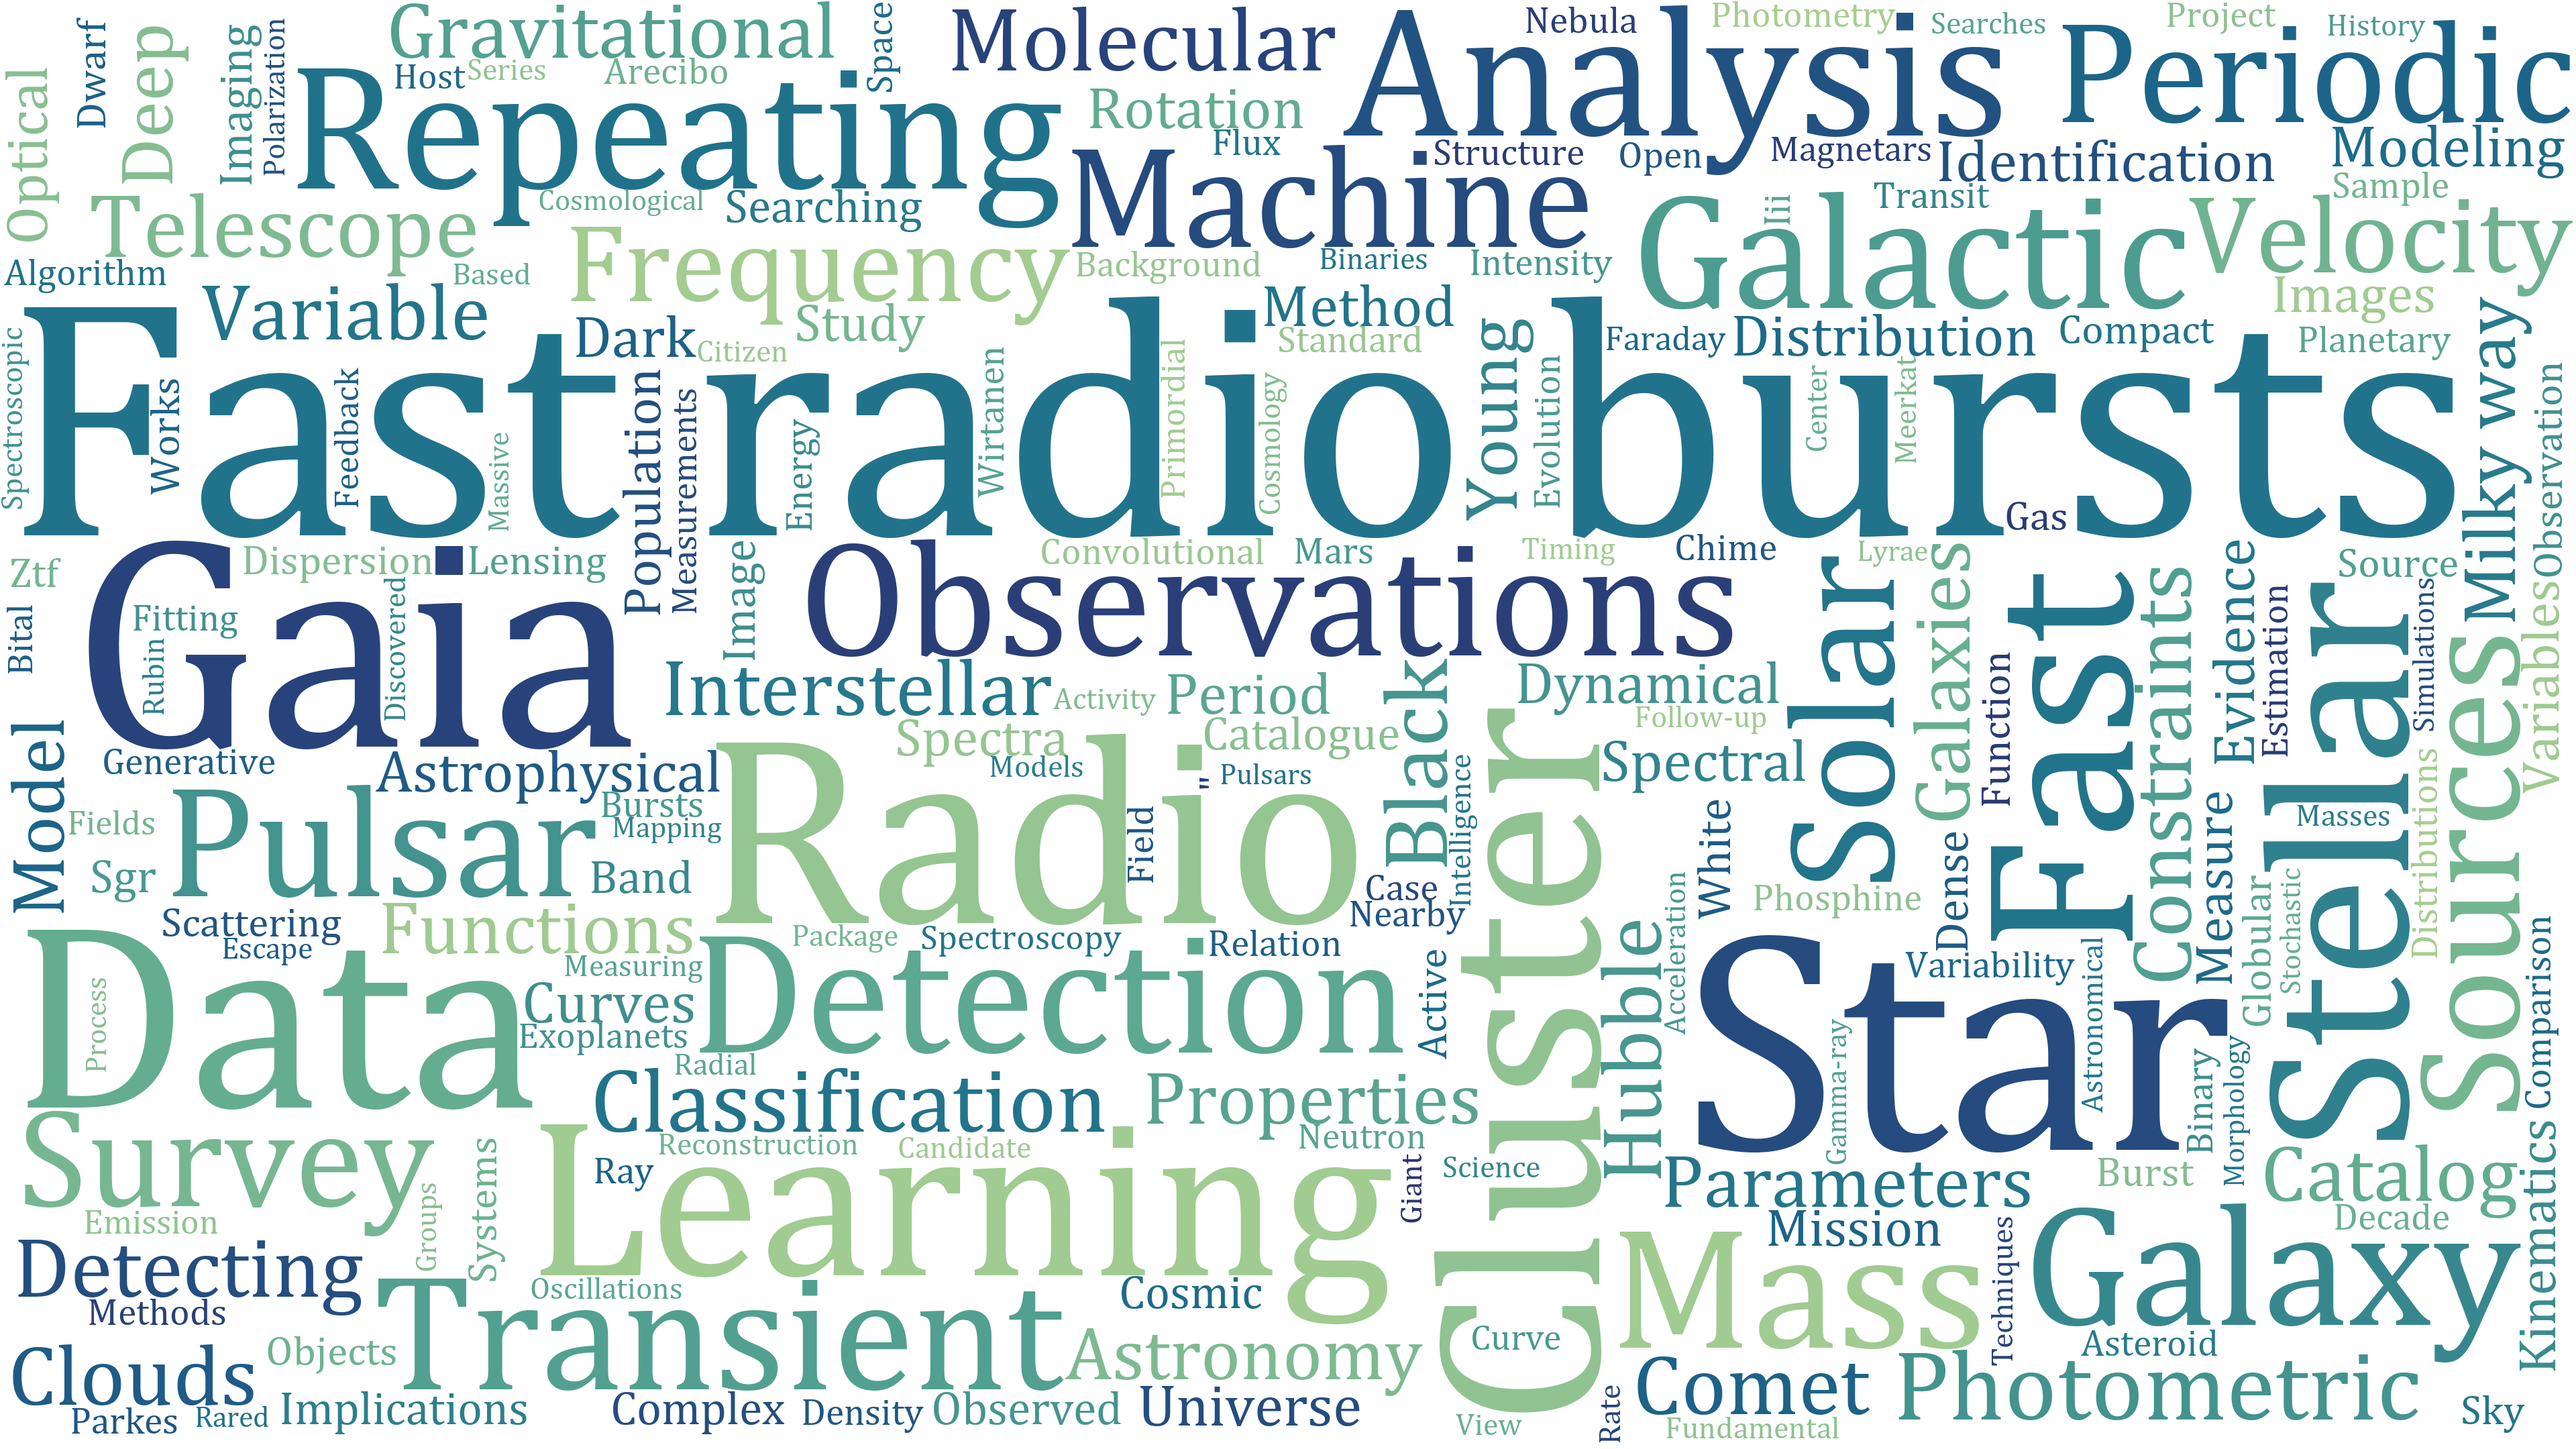
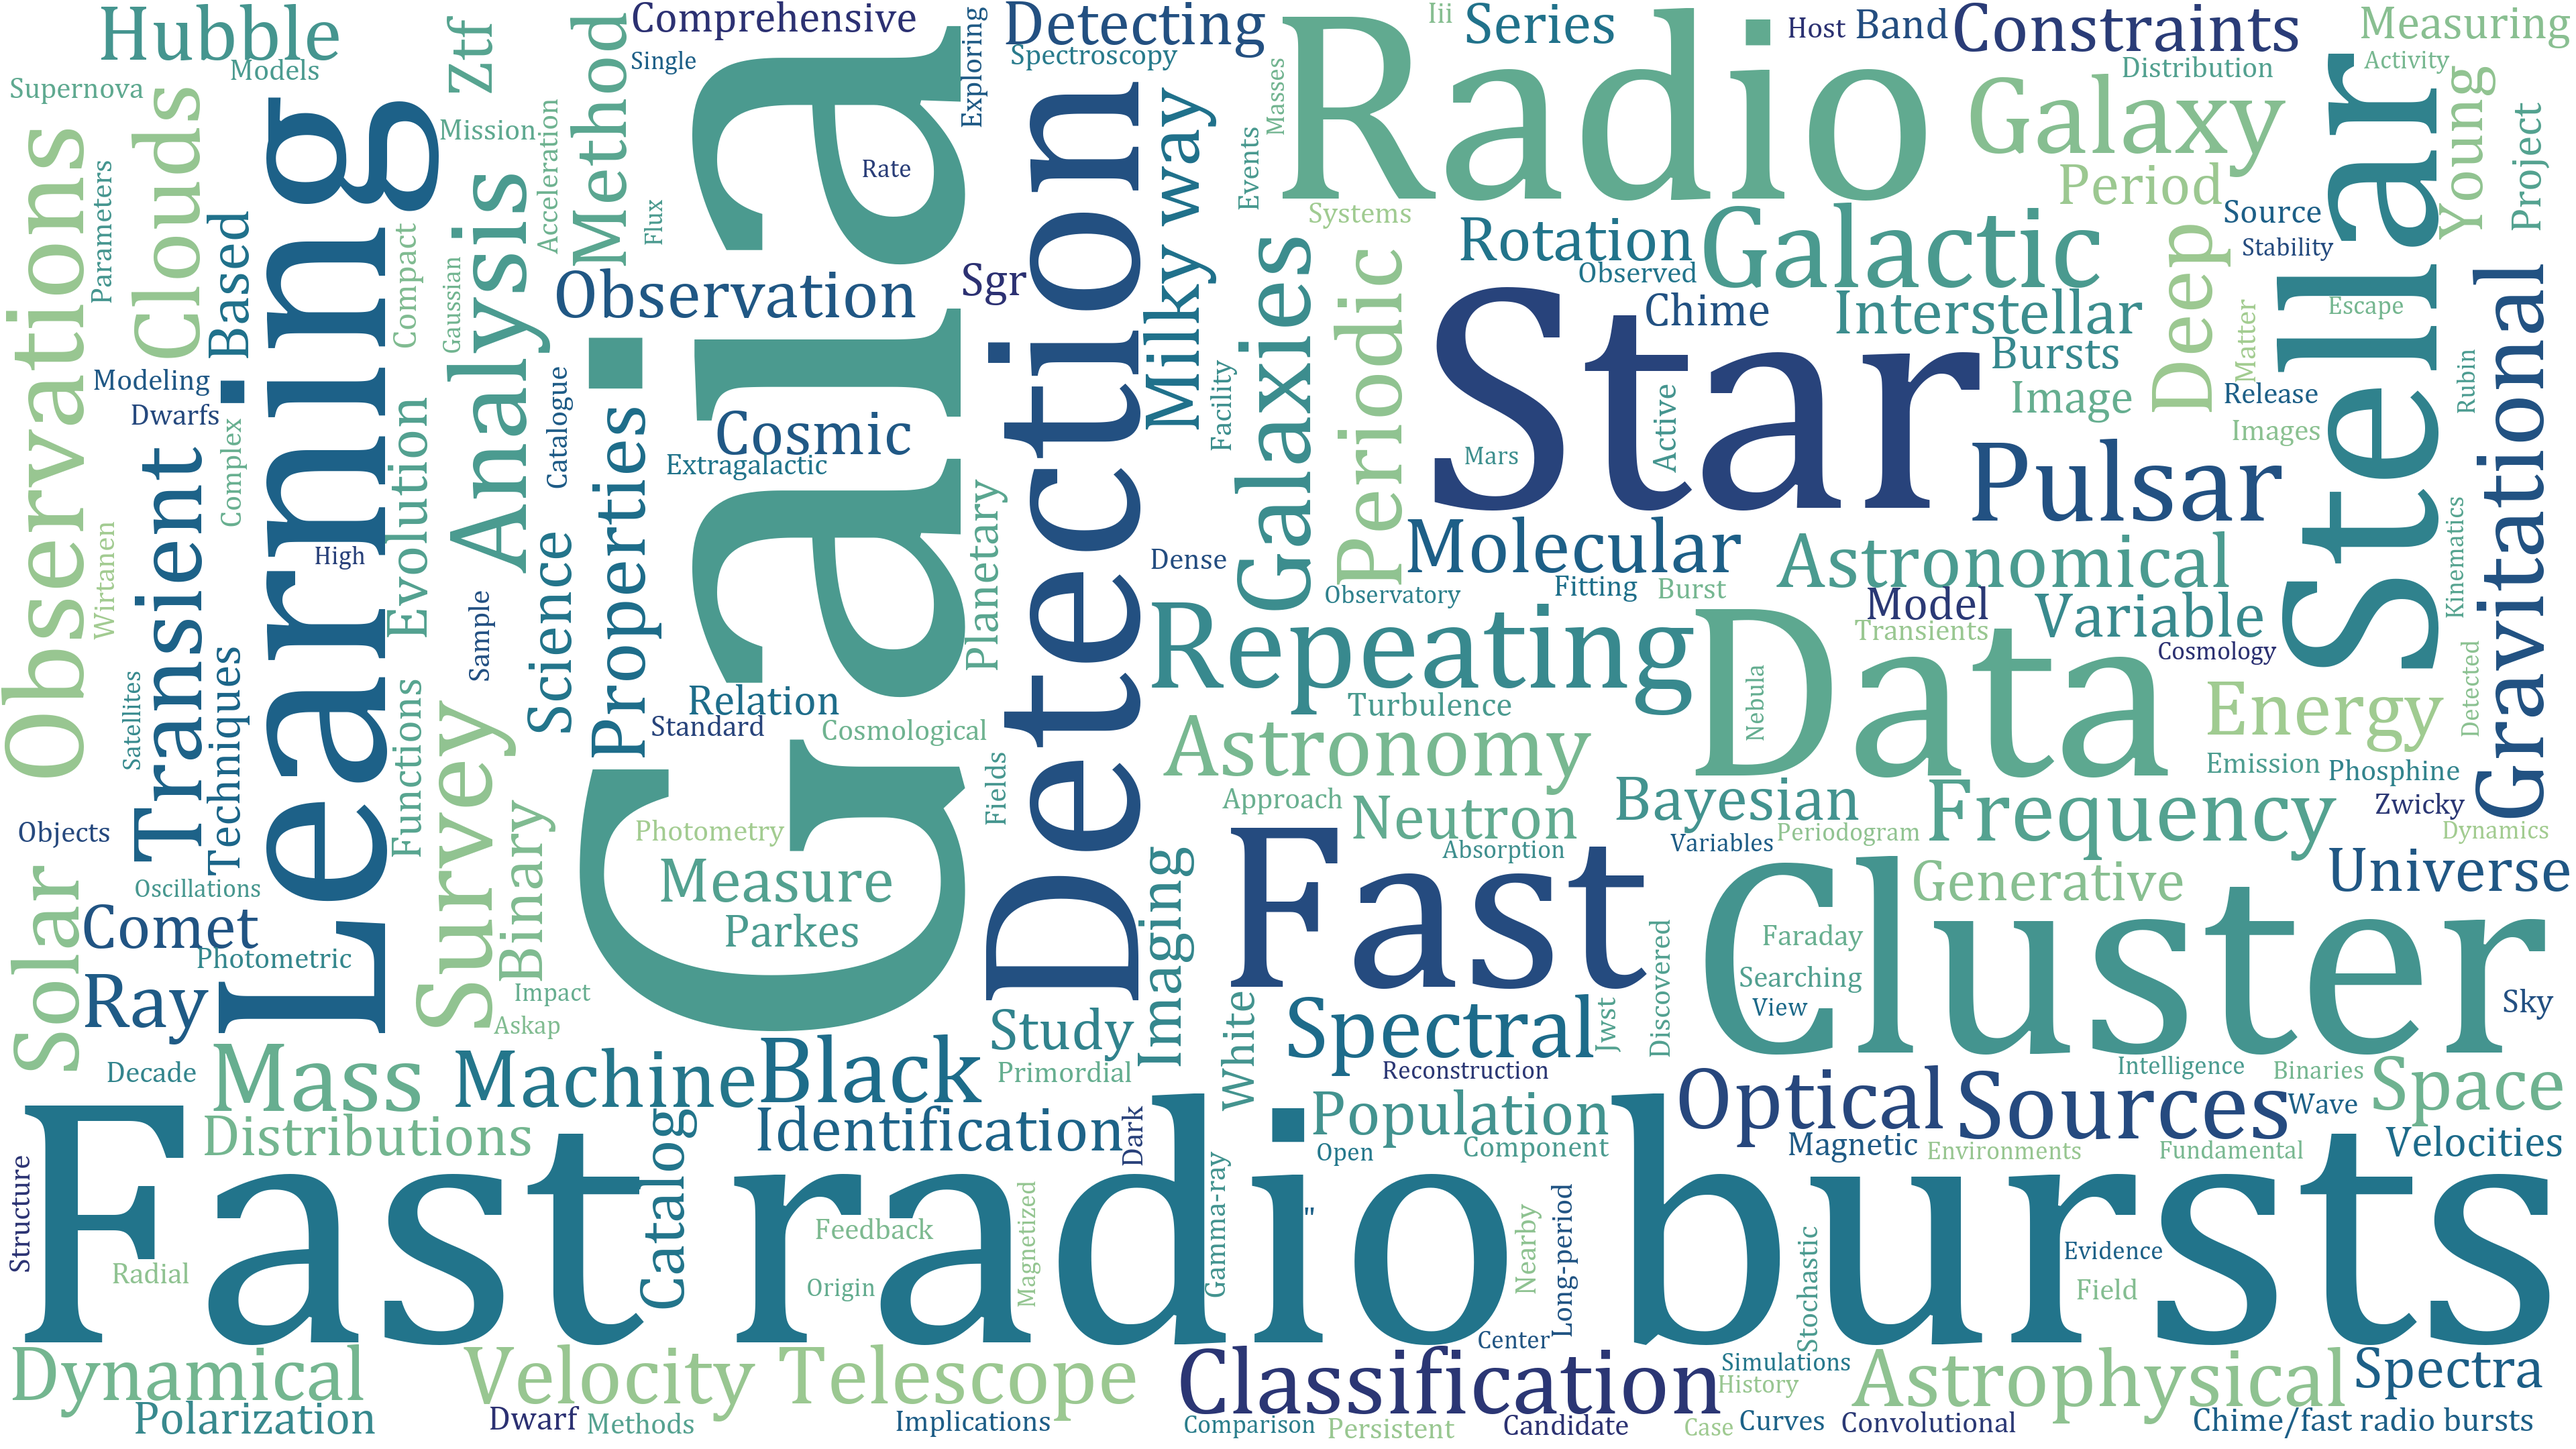
2022-07-29

diff --git a/2022/07/AstroPH-2022-07.md b/2022/07/AstroPH-2022-07.md
@@ -244,3 +244,77 @@
 
 ## 2022-07-25
 
+1. [Globally optimal and scalable N-way matching of astronomy catalogs](https://arxiv.org/abs/2207.11125)
+
+   > Stellar, Cross Match, Software
+
+   新的概率方法做星表之间的交叉匹配，在处理多个目录时比列举所有可能的候选天体更有优势，代码在[这里](https://github.com/tunguyen52/Nway-matching)。
+
+2. [Image Improvement and Restoration in Optical Time Series. I. The Method](https://arxiv.org/abs/2207.10973)
+
+   > Planetary, Lensing, Image Restoration
+
+   流浪行星由于没有束缚在恒星上，所以无法通过传统的系外行星探测方法，如凌日、径向速度、直接成像等方式来搜索。流浪行星经过背景恒星可以造成微引力透镜，或许可以做为在球状星团中搜寻流浪行星的探针。通常对球状星团图像的时间序列做微分，以提取光变事件，并判断其中是否存在微引力透镜。但是在长期观测中，仪器的异常、观测条件的变化会导致PSF失真，从而影响微分的质量。
+
+   这里提出一种迭代图像重建（天文图像修复）方法，在`Scaled Gradient Projection`算法的基础上修改，以恢复恒星的形状，代码在[这里](https://github.com/Yash-10/fc_sgp-star-restoration)。
+
+## 2022-07-26
+
+1. [First Batch of Candidate Galaxies at Redshifts 11 to 20 Revealed by the James Webb Space Telescope Early Release Observations](https://arxiv.org/abs/2207.11558)
+
+   > JWST, Galaxy, Redshift
+
+   HST的红外截止波长是$1.6\mu m$，对应红移11，宇宙年龄4.2亿年，JWST的`NIRCam`延伸到$5\mu m$，对应宇宙年龄千万年，可以带来对第一批恒星和星系形成过程的认识。JWST观测的`SMACS 0723-73`透镜星系团处，使用SED拟合测光红移，找到88个红移大于11的星系，最高的可以到20。黄家生老师他们的文章。
+
+2. [Four New Fast Radio Bursts Discovered in the Parkes 70-cm Pulsar Survey Archive](https://arxiv.org/abs/2207.12332)
+
+   > Fast Radio Burst
+
+   在Parkes历史数据里找到4个新的FRB，宽度$>50ms$普遍长于目前发现的FRB，其中一个FRB的DM是$3338\,\rm pc/cm^{3}$，是目前DM最大的FRB，并且在时间上也比Lorimer Burst早了10年。
+
+## 2022-07-27
+
+1. [Formation of Comets](https://arxiv.org/abs/2207.12731)
+
+   > Planetary, Comet
+
+   彗星形成综述，描述彗星从太阳星云中的尘埃和冰粒到外太阳系小天体的物理演变。
+
+   <img src="Figures/image-20220727163402950.png" alt="image-20220727163402950" style="zoom:50%;" />
+
+2. [How to plan your astronomy research paper in ten steps](https://arxiv.org/abs/2207.12959)
+
+   > Astronomy, Methodology
+
+   十步构建天文论文。
+
+## 2022-07-28
+
+1. [High frequency study of FRB 20180916B using the 100-m Effelsberg radio telescope](https://arxiv.org/abs/2207.13669)
+
+   > Fast Radio Burst, Observation
+
+   Effelsberg在$4-8GHz$对`FRB20180916B`的观测，在一个活动窗口找到了8个爆发，比CHIME的活动峰值早了3.6天，进一步证明随频率增加活动窗口提前。与低频比，爆发宽度更窄并且频谱更宽，偏振度高并且偏振角平坦。爆发表现出银河导致的衍射闪烁，并随时间推移而变化。
+
+   <img src="Figures/image-20220728105938287.png" alt="image-20220728105938287" style="zoom:50%;" />
+
+2. [The Sources of Fast Radio Bursts](https://arxiv.org/abs/2207.13241)
+
+   > Fast Radio Burst, Theory
+
+   `J. I. Katz`的文章，记录了重复FRB和非重复FRB的划分征集，并讨论了不同类别可能的模型，重复FRB可能是黑洞吸积盘，非重复FRB可能是SGR。
+
+## 2022-07-29
+
+1. [The Eclipse Megamovie Project (2017)](https://arxiv.org/abs/2207.13704)
+
+   > Solar System, Eclipse
+
+   北美天文爱好者在2017年8月21日拍摄的日全食的影像数据资料，在[这里](http://eclipsemegamovie.org/)。
+
+2. [Turbulence in the outer heliosphere](https://arxiv.org/abs/2207.14115)
+
+   > Solar System, Turbulence, Review
+
+   关于太阳风（SW）和近地星际介质（LISM）中湍流观测证据、建模工作以及公开的挑战的总数。
+

diff --git a/2022/08/AstroPH-2022-08.md b/2022/08/AstroPH-2022-08.md
@@ -1,0 +1,2 @@
+## 2022-08-10
+
